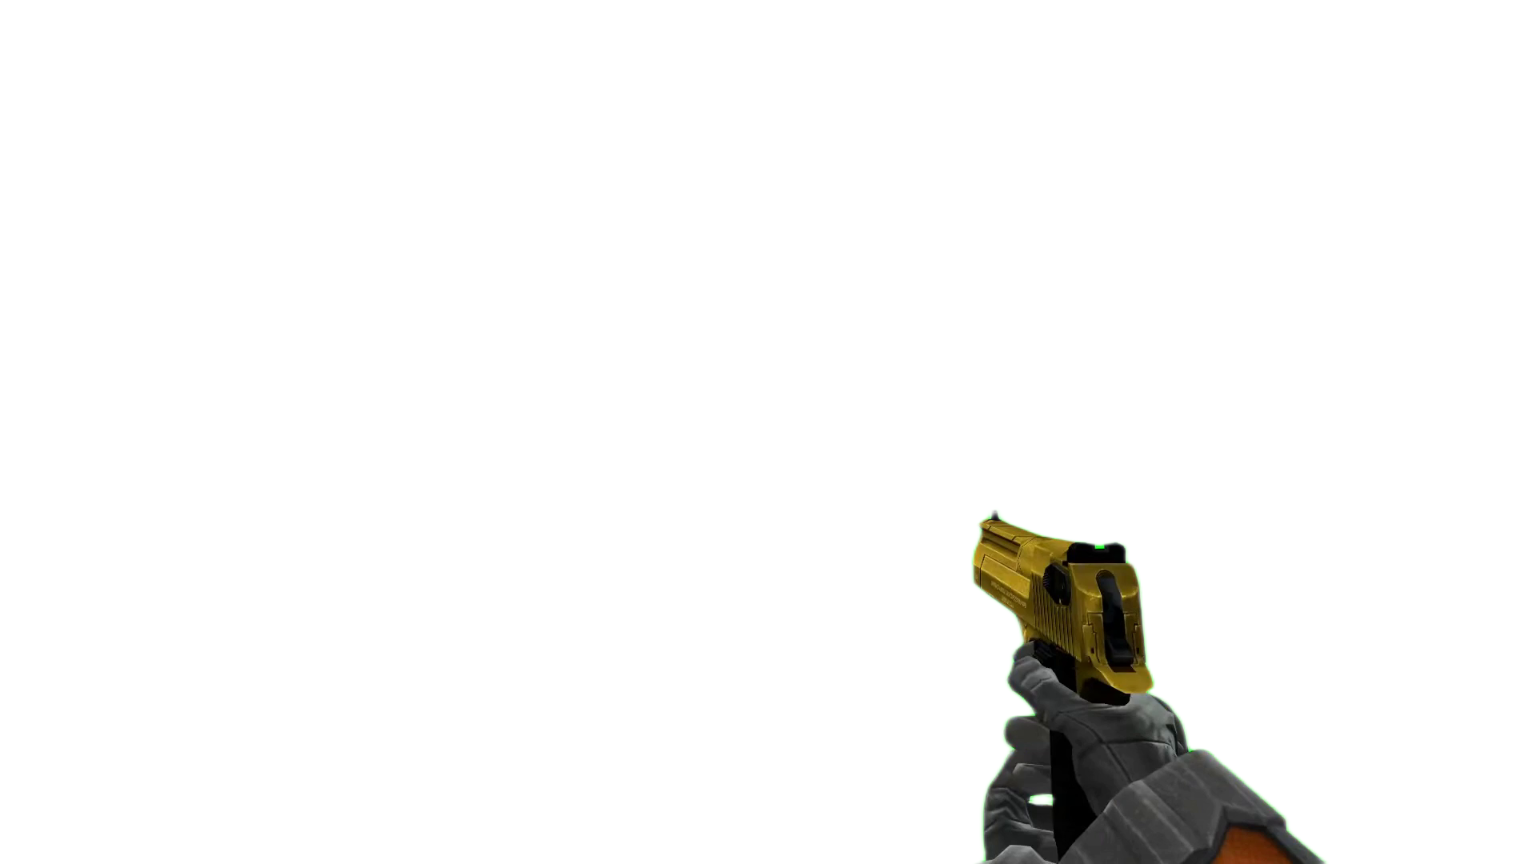
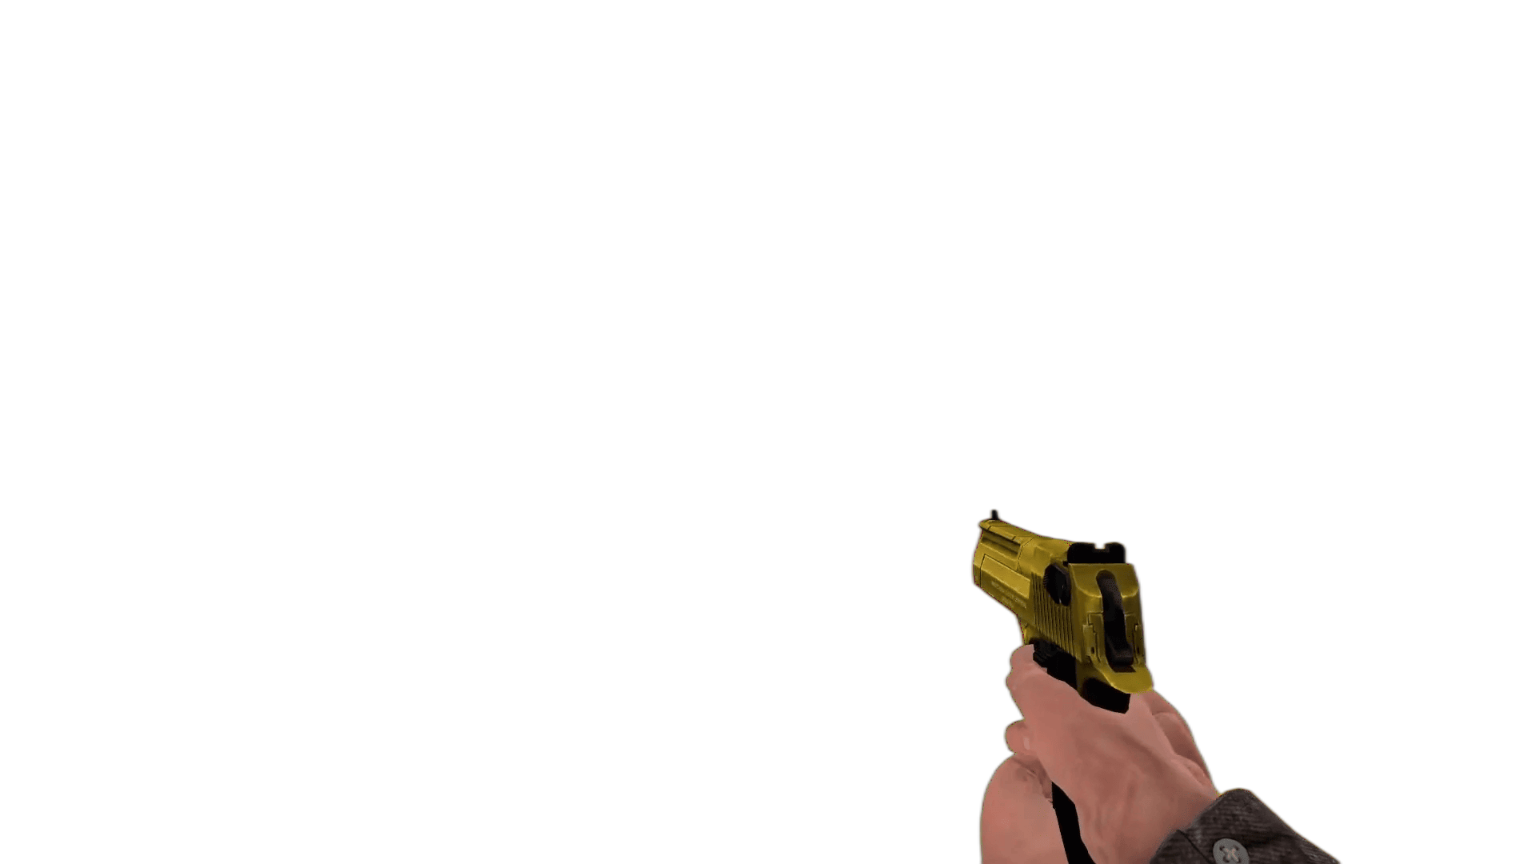
shooting animation donr

Changed region(s): [[0.625, 0.7188, 0.875, 1.0], [0.625, 0.5938, 0.6875, 0.6875], [0.6875, 0.625, 0.75, 0.6562]]

diff --git a/Bonus/animation/pov.c b/Bonus/animation/pov.c
@@ -6,14 +6,11 @@
 /*   By: moichou <moichou@student.42.fr>            +#+  +:+       +#+        */
 /*                                                +#+#+#+#+#+   +#+           */
 /*   Created: 2024/08/07 14:38:38 by moichou           #+#    #+#             */
-/*   Updated: 2024/08/12 21:31:40 by moichou          ###   ########.fr       */
+/*   Updated: 2024/08/20 19:37:53 by moichou          ###   ########.fr       */
 /*                                                                            */
 /* ************************************************************************** */
 
 #include "../cub.h"
-
-#define SHOOTING_ANIMATION_FRAMES 11
-#define FRAME_DURATION 100000000
 
 /*
 	load images Please fix the path to the images in ft_get_image
@@ -46,57 +43,47 @@ mlx_image_t	**ft_get_frames(t_cub *cub, char *path, int frames)
 
 void ft_update_shooting(t_cub *cub)
 {
-    // Ensure that shooting is active and frames are valid
-    if (!cub->shooting_active || cub->shooting_frames == NULL)
+	static int i;
+    if (cub->shooting_active == 0)
         return;
-
-    // Update frames based on the elapsed time
-    while (mlx_get_time() - cub->last_frame_time > FRAME_DURATION)
-    {
-        // Check if current_frame is within bounds
-        if (cub->current_frame < SHOOTING_ANIMATION_FRAMES)
-        {
-            // Display the current frame
-			if (!mlx_resize_image(cub->shooting_frames[cub->current_frame], WIDTH, HEIGHT))
-            mlx_image_to_window(cub->mlx, cub->shooting_frames[cub->current_frame], 0, 0);
-
-            // Delete the previous frame (if applicable)
-            if (cub->current_frame > 0)
-                mlx_delete_image(cub->mlx, cub->shooting_frames[cub->current_frame - 1]);
-
-            // Increment frame index
-            cub->current_frame++;
-        }
-
-        // Check if the animation has reached the last frame
-        if (cub->current_frame >= SHOOTING_ANIMATION_FRAMES)
-        {
-            cub->shooting_active = 0; // Deactivate shooting
-            cub->current_frame = 0;   // Reset the frame index
-            break;                    // Exit the loop
-        }
-
-        // Move to the next frame time
-        cub->last_frame_time += FRAME_DURATION;
-    }
-
-    // Update the time for the next frame
-    cub->last_frame_time = mlx_get_time();
+	
+	if (i)
+	{
+		mlx_resize_image(cub->shooting_frames[cub->shooting_active], WIDTH, HEIGHT);
+		mlx_image_to_window(cub->mlx, cub->shooting_frames[cub->shooting_active], 0, 0);
+		i = 0;
+	}
+	if (cub->shooting_duration > 5)
+	{
+		mlx_delete_image(cub->mlx, cub->shooting_frames[cub->shooting_active]);
+		cub->shooting_duration = 0;
+		cub->shooting_active += 1;
+		if (cub->shooting_active >= 7)
+		{
+			mlx_delete_image(cub->mlx, cub->shooting_frames[cub->shooting_active]);
+			cub->pov_normal = ft_get_image(cub, "../animation/shooting/6.png");
+			mlx_resize_image(cub->pov_normal, WIDTH, HEIGHT);
+			cub->shooting_active = 0;
+			mlx_image_to_window(cub->mlx, cub->pov_normal, 0, 0);
+			return ;
+		}
+		mlx_resize_image(cub->shooting_frames[cub->shooting_active], WIDTH, HEIGHT);
+		mlx_image_to_window(cub->mlx, cub->shooting_frames[cub->shooting_active], 0, 0);
+		i = 0;
+	}
+	cub->shooting_duration += 1;
 }
 
 void ft_star_shooting(t_cub *cub)
 {
-    cub->shooting_active = 1;
-    cub->current_frame = 0;
-    cub->last_frame_time = mlx_get_time();
-
-    // Ensure that shooting frames are properly allocated
-    cub->shooting_frames = ft_get_frames(cub, "../animation/shooting/", SHOOTING_ANIMATION_FRAMES);
-    if (cub->shooting_frames == NULL)
-    {
-        // Handle the error (e.g., log it, deactivate shooting, etc.)
-        cub->shooting_active = 0;
-    }
+	cub->shooting_frames = ft_get_frames(cub, "../animation/shooting/", 7);
+	if (cub->shooting_frames == NULL)
+	{
+		ft_printerror("shooting frames error\n");
+		cub->shooting_active = 0;
+	}
+	cub->shooting_duration = 0;
+	cub->shooting_active = 1;
 }
 
 void	ft_pov(void *arg)
@@ -104,7 +91,10 @@ void	ft_pov(void *arg)
 	t_cub		*cub;
 
 	cub = (t_cub *)arg;
-	if (mlx_is_key_down(cub->mlx, MLX_KEY_SPACE))
+	if (mlx_is_key_down(cub->mlx, MLX_KEY_SPACE) && cub->shooting_active == 0)
+    {
+        mlx_delete_image(cub->mlx, cub->pov_normal);
 		ft_star_shooting(cub);
+    }
 	ft_update_shooting(cub);
 }

diff --git a/Bonus/cub.h b/Bonus/cub.h
@@ -6,7 +6,7 @@
 /*   By: moichou <moichou@student.42.fr>            +#+  +:+       +#+        */
 /*                                                +#+#+#+#+#+   +#+           */
 /*   Created: 2024/07/09 10:52:35 by moichou           #+#    #+#             */
-/*   Updated: 2024/08/12 20:59:51 by moichou          ###   ########.fr       */
+/*   Updated: 2024/08/19 21:36:41 by moichou          ###   ########.fr       */
 /*                                                                            */
 /* ************************************************************************** */
 
@@ -82,12 +82,11 @@ typedef struct s_cub
 	mlx_image_t		*so;
 	mlx_image_t		*we;
 	mlx_image_t		*ea;
-	mlx_image_t		*door;
-	mlx_image_t		*pov_normal;
-    mlx_image_t **shooting_frames;
-    int current_frame;
-    int shooting_active;
-    double last_frame_time;
+    mlx_image_t		*door;
+    mlx_image_t		*pov_normal;
+    mlx_image_t		**shooting_frames;
+    int				shooting_active;
+    int				shooting_duration;
 	int				f[4];
 	int				c[4];
 }   t_cub;

diff --git a/Bonus/main.c b/Bonus/main.c
@@ -6,7 +6,7 @@
 /*   By: moichou <moichou@student.42.fr>            +#+  +:+       +#+        */
 /*                                                +#+#+#+#+#+   +#+           */
 /*   Created: 2024/07/09 10:53:10 by moichou           #+#    #+#             */
-/*   Updated: 2024/08/12 17:09:41 by moichou          ###   ########.fr       */
+/*   Updated: 2024/08/19 21:43:58 by moichou          ###   ########.fr       */
 /*                                                                            */
 /* ************************************************************************** */
 
@@ -130,6 +130,7 @@ void	ft_init_cub(t_cub *cub, t_config *game_config)
         perror(mlx_strerror(mlx_errno));
         return ;
     }
+    cub->shooting_active = 0;
 }
 
 int main(int ac, char **av)

diff --git a/Mandatory/cub.h b/Mandatory/cub.h
@@ -6,7 +6,7 @@
 /*   By: moichou <moichou@student.42.fr>            +#+  +:+       +#+        */
 /*                                                +#+#+#+#+#+   +#+           */
 /*   Created: 2024/07/09 10:52:35 by moichou           #+#    #+#             */
-/*   Updated: 2024/08/07 10:51:22 by moichou          ###   ########.fr       */
+/*   Updated: 2024/08/19 21:36:32 by moichou          ###   ########.fr       */
 /*                                                                            */
 /* ************************************************************************** */
 
